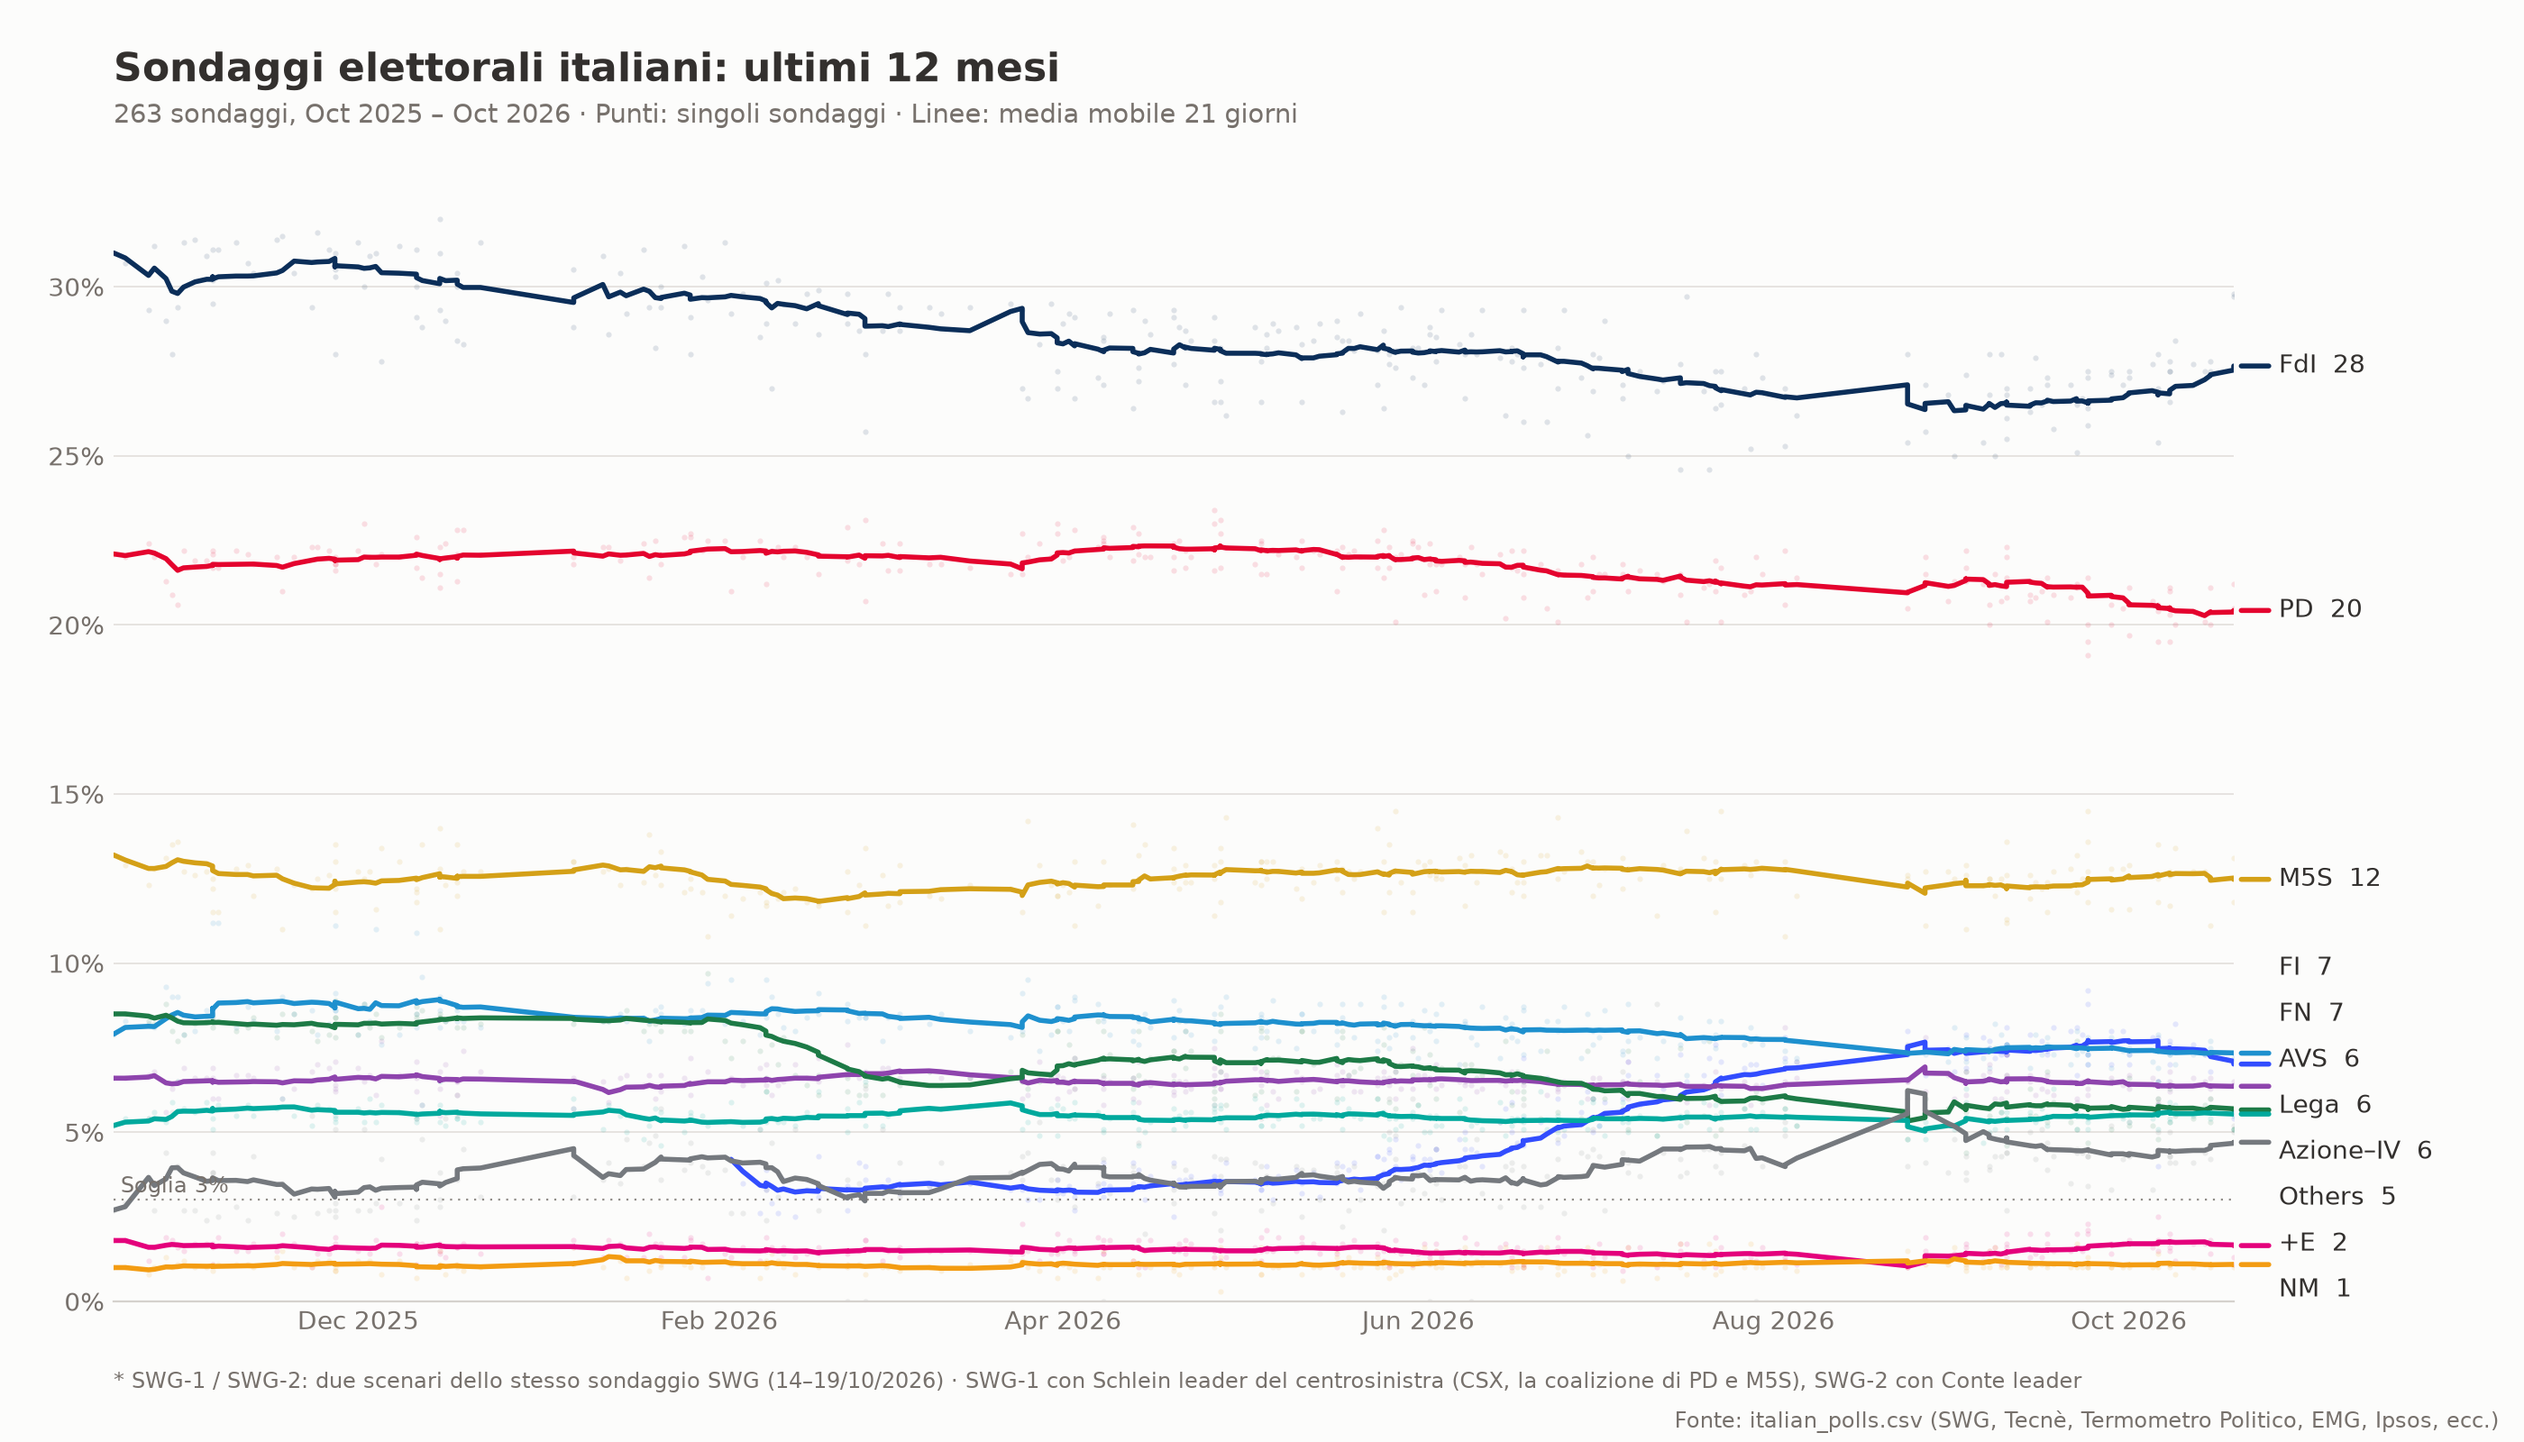
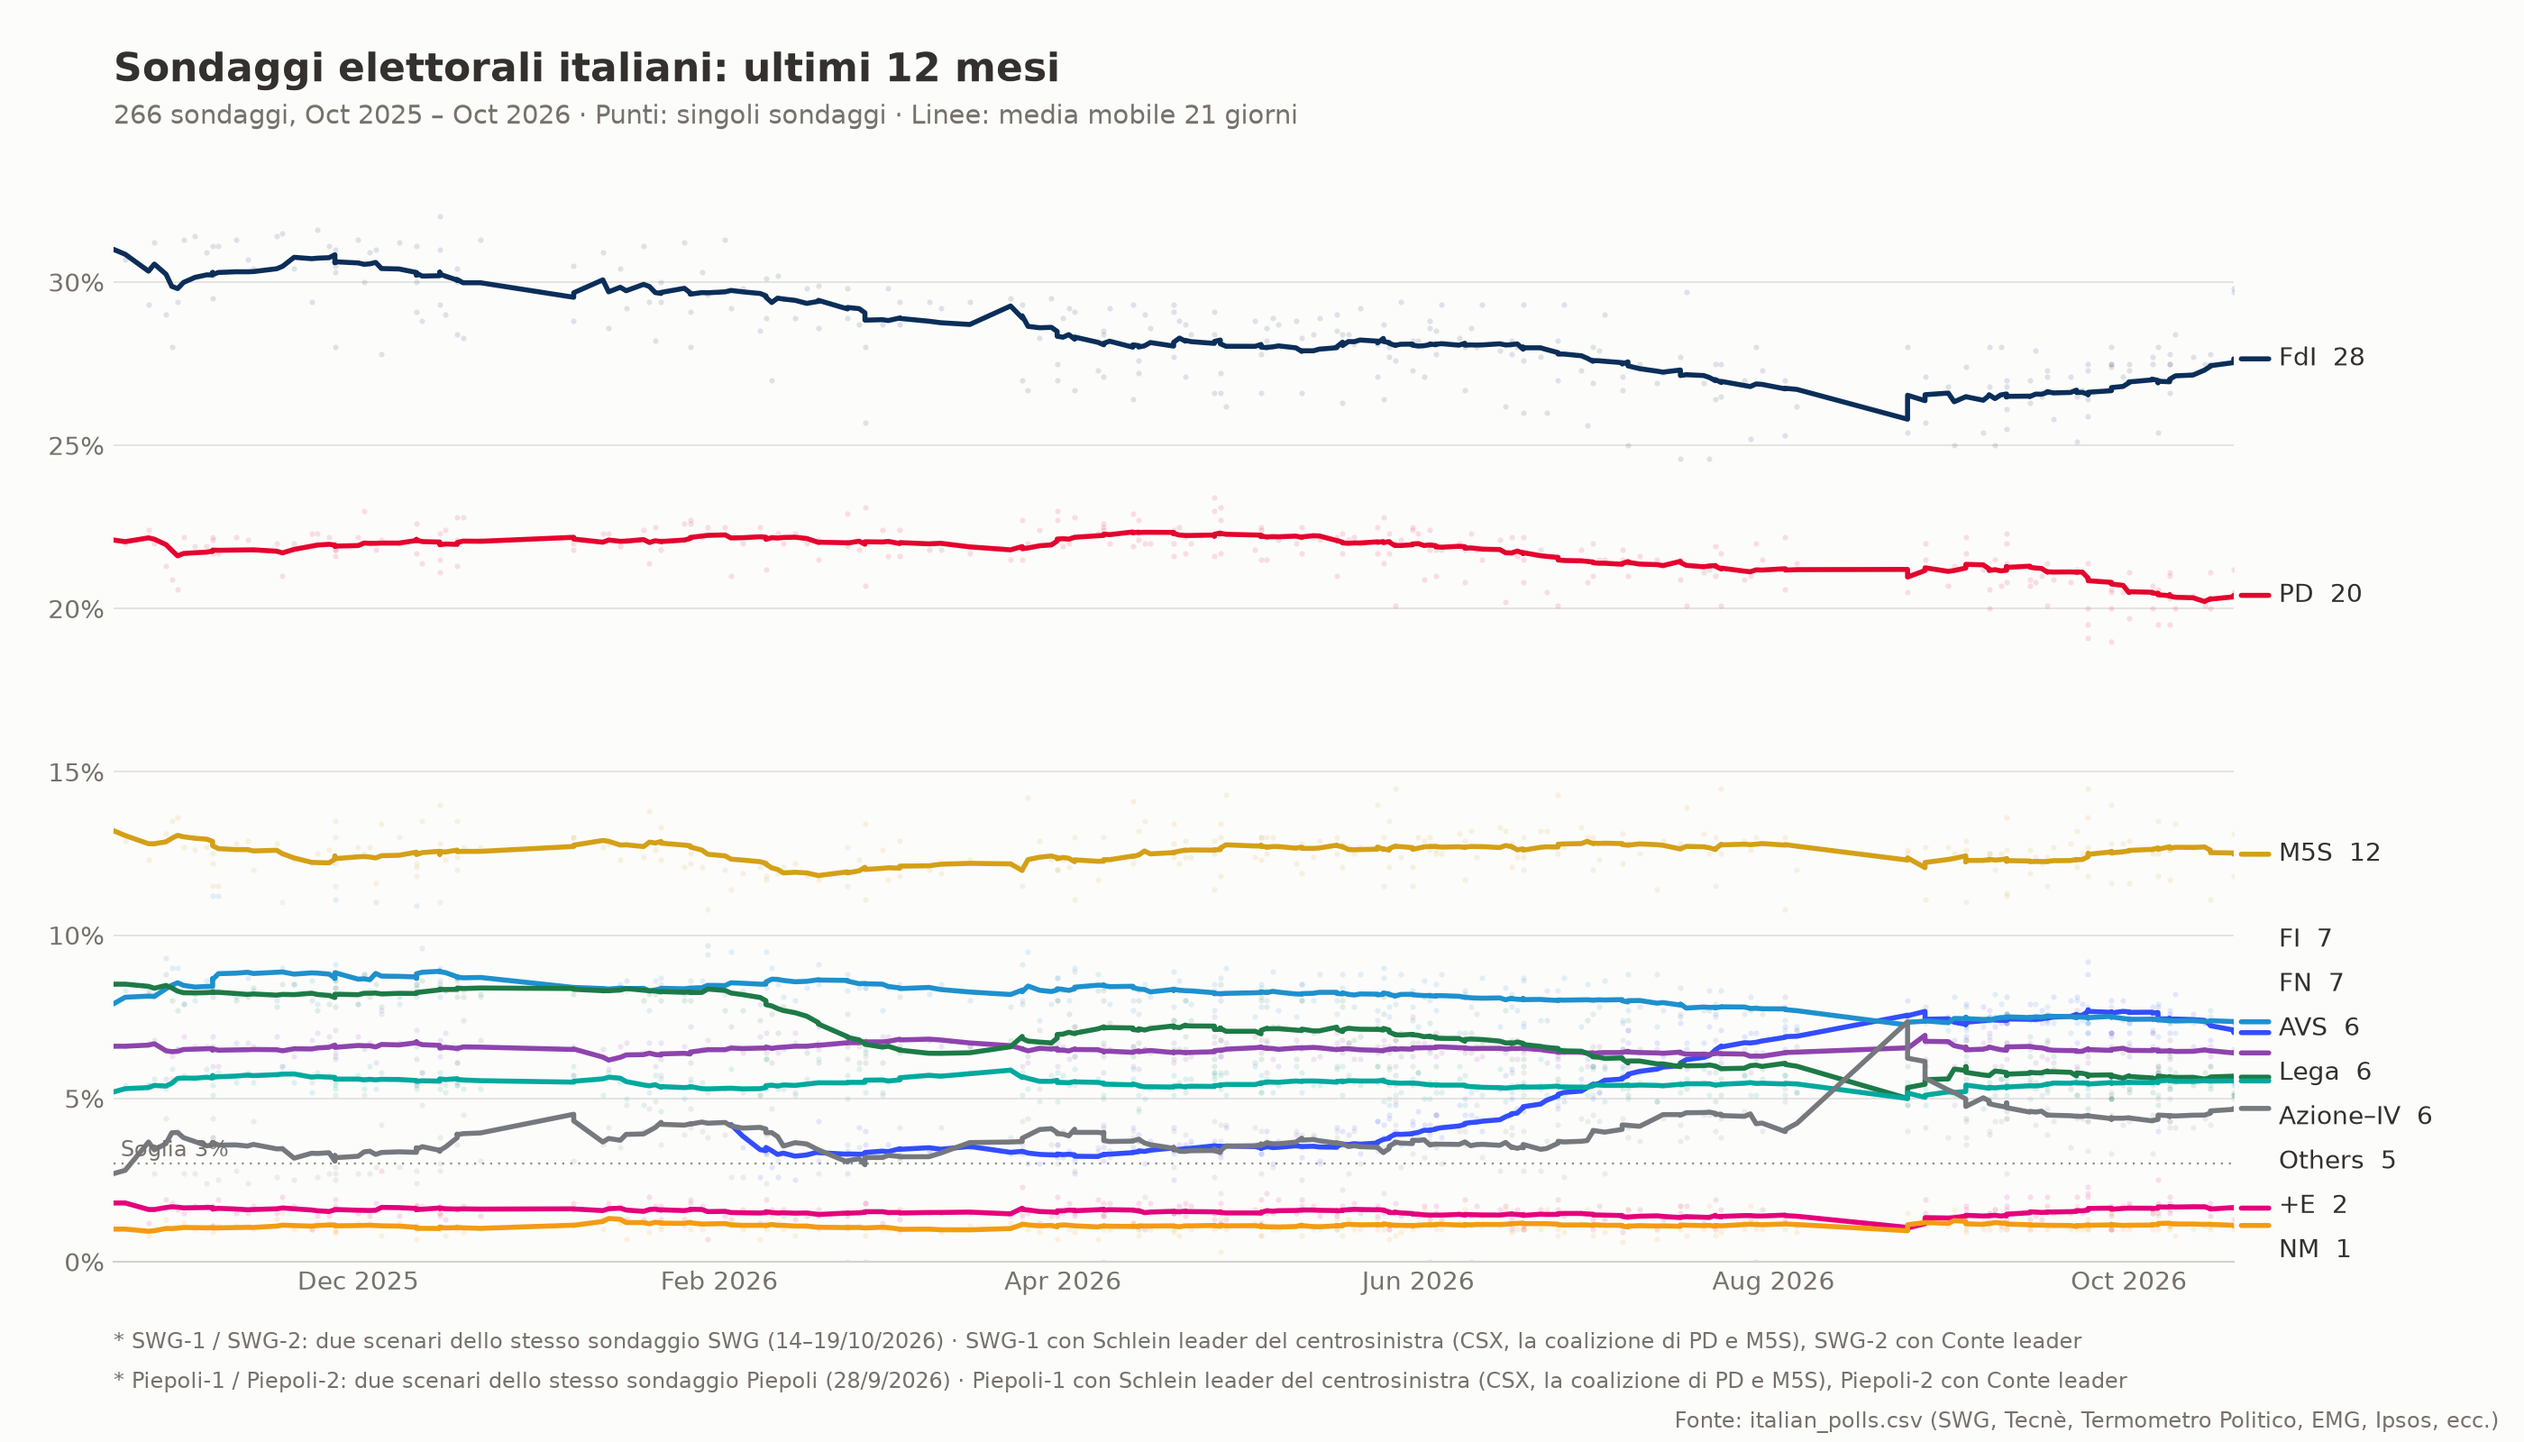
Add two missed Piepoli polls: regular (2026-10-05) and Schlein/Conte scenario pair (2026-09-28)
Both were already present on Wikipedia's current tables but had never
been scraped into the CSV: Piepoli 2026-10-05 in the main "Party vote"
2026 table, and the two-scenario Piepoli-1/Piepoli-2 (2026-09-28) in
the "Under Schlein vs. Conte leadership" comparison table, which also
holds the already-committed SWG-1/SWG-2 (2026-10-19) entry. Tagged and
footnoted per the existing scenario-poll convention.

diff --git a/main.py b/main.py
@@ -57,6 +57,11 @@ SCENARIO_NOTES = {
         "SWG-1 con Schlein leader del centrosinistra (CSX, la coalizione di PD e M5S), "
         "SWG-2 con Conte leader"
     ),
+    frozenset({"Piepoli-1", "Piepoli-2"}): (
+        "Piepoli-1 / Piepoli-2: due scenari dello stesso sondaggio Piepoli (28/9/2026) · "
+        "Piepoli-1 con Schlein leader del centrosinistra (CSX, la coalizione di PD e M5S), "
+        "Piepoli-2 con Conte leader"
+    ),
 }
 
 INK = "#33302e"
